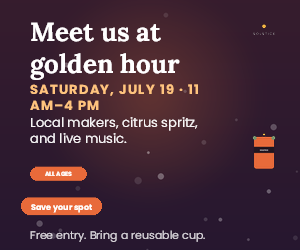
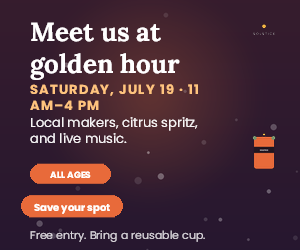
Improve medium-rectangle action hierarchy

Changed region(s): [[0.09, 0.644, 0.42, 0.896]]

diff --git a/engine/chameleon/planner.py b/engine/chameleon/planner.py
@@ -337,6 +337,7 @@ def _layout(dna: DesignDNA, family: str, variant: int = 0) -> dict[str, Any]:
         hero_left = family == "banner_mirror"
         compact = ch < 150
         short_landscape = 360 <= ch < 500
+        medium_rectangle = 200 <= ch <= 320 and 1.0 <= dna.target_aspect <= 1.5
         compact_wide_copy = False
         if compact and len(heads) == 1:
             headline = heads[0].element
@@ -453,7 +454,8 @@ def _layout(dna: DesignDNA, family: str, variant: int = 0) -> dict[str, Any]:
         if badge_groups:
             gap = max(2.0, cw * 0.012)
             available = cw * (0.50 if compact else 0.52)
-            cell_w = max(1.0, min(cw * (0.16 if compact else 0.19), (available - gap * (len(badge_groups) - 1)) / len(badge_groups)))
+            badge_width_cap = 0.27 if medium_rectangle else 0.16 if compact else 0.19
+            cell_w = max(1.0, min(cw * badge_width_cap, (available - gap * (len(badge_groups) - 1)) / len(badge_groups)))
             for i, gid in enumerate(badge_groups):
                 x = mx + i * (cell_w + gap)
                 badge_h = ch * (0.21 if compact else 0.08 if short_landscape else 0.13)
@@ -464,7 +466,7 @@ def _layout(dna: DesignDNA, family: str, variant: int = 0) -> dict[str, Any]:
         )
         for gid in cta_groups:
             x = cw * (0.57 if compact else 0.07)
-            w = cw * 0.27
+            w = cw * (0.34 if medium_rectangle else 0.27)
             y = ch * 0.79 if compact else min(ch - ch * 0.24, cta_y)
             h = max(1.0, ch * (0.21 if compact else 0.18 if short_landscape else 0.13))
             _apply_rect(dna, by_id, dna.groups[gid][0], (x, y, w, h), assigned)

diff --git a/tests/test_engine.py b/tests/test_engine.py
@@ -161,6 +161,14 @@ class EngineContractTests(unittest.TestCase):
         self.assertNotEqual(diagnostics["layout_family"], "source_fit")
         self.assert_contract(source, target, output)
 
+    def test_medium_rectangle_keeps_action_labels_above_legal_copy(self):
+        fixture = json.loads((ROOT / "evidence" / "curated" / "market" / "source.json").read_text(encoding="utf-8"))
+        output = resize(fixture["source"], {"width": 300, "height": 250})
+        by_id = {element["id"]: element for element in output["elements"]}
+        self.assertGreaterEqual(by_id["cta_label"]["font_size"] / by_id["legal_copy"]["font_size"], 0.82)
+        self.assertGreaterEqual(by_id["time_badge_label"]["font_size"] / by_id["legal_copy"]["font_size"], 0.82)
+        self.assertFalse(any("type hierarchy regressed" in issue for issue in get_last_diagnostics()["issues"]))
+
     @staticmethod
     def _union_size(elements):
         x0 = min(float(element["x"]) for element in elements)

diff --git a/docs/failure-taxonomy.md b/docs/failure-taxonomy.md
@@ -5,7 +5,7 @@ This is the current diagnostic snapshot from `evidence/benchmark/report.json`. T
 | Category | Current evidence | Status and next action |
 |---|---|---|
 | Typography and hierarchy | Zero hierarchy regressions across all 64 stress cases and 45 mutations. The earlier 108 stress flags were inherited source ratios, not output regressions. | The scorer compares candidate hierarchy with the source. Action-word inference, proportion-preserving CTA groups, and short-landscape band spacing now keep primary actions above badge labels without clipping or new collisions. |
-| Text clipping and excessive shrinkage | No clipped text in the official outputs, stress cases, or mutations. The official Level 3 banner text sizes are: headline 15.09 px, subhead 8.45 px, and legal line 7.91 px. | Preserve every source string. Compact banner tests enforce headline, legal, badge, and CTA floors. Supporting copy is still small at 728×90. The wide-source market fixture retains hierarchy warnings in its medium-rectangle output. |
+| Text clipping and excessive shrinkage | No clipped text in the official outputs, stress cases, or mutations. The official Level 3 banner text sizes are: headline 15.09 px, subhead 8.45 px, and legal line 7.91 px. | Preserve every source string. Compact banner tests enforce headline, legal, badge, and CTA floors. Supporting copy is still small at 728×90. A medium-rectangle group-width rule removed the hierarchy warning there; the mobile date-to-CTA relationship remains a warning. |
 | Banner reflow | The official 1600×400 and 728×90 tasks select a banner family. Their current renderer-backed outputs use distinct title, copy, action, and product areas. | Continue visual inspection; a legal banner can still be too dense. The advanced sample remains the weakest official composition. |
 | Vertical reflow and target underuse | The 1080×1080 → 1080×1350 warm-up uses a lower action band. The independent 1080×1920 sidecar uses a shorter hero frame and renderer-measured wrapped-copy height with controlled spacing; a regression test checks its group ordering and band size. | The render has tighter hero-to-copy and copy-to-badge spacing, but open space remains between content groups. The 300×600 product remains small because its source asset has transparent margins. More source-backed portrait fixtures are needed before adjusting these bands further. |
 | Collision and grouping | Zero new or worsened collisions in the 64-case stress set and 45 mutations. Grouped elements are checked for intact membership and pair placement. | The metric does not clear or count overlaps already present in the synthetic source. Visual inspection of 45-element samples shows inherited clutter; use source-relative metrics with human review, not as an absolute legibility claim. |

diff --git a/evidence/curated/market/visual-review.md b/evidence/curated/market/visual-review.md
@@ -9,10 +9,10 @@ on the right. The same 11 elements are retained in all outputs.
 | 1080×1920 vertical story | `stack` | Preserves the order of headline, hero, event details, badge, CTA, and footer. The product looks small because of its source image's transparent bounds; gaps between bands remain. |
 | 300×600 mobile story | `stack` | The bold date is now informational copy and no longer overlaps the CTA. The headline and action remain prominent; date and CTA type sizes are close, so the hierarchy diagnostic remains. |
 | 728×90 leaderboard | `banner` | The headline, date, and supporting copy are compressed into a busy strip. The grouped CTA remains visible, but the supporting copy is small. |
-| 300×250 medium rectangle | `banner` | All content remains present without new intersections. Badge and CTA are small; the hierarchy scorer reports that legal copy is too large relative to these labels. |
+| 300×250 medium rectangle | `banner` | Wider action groups improve badge and CTA readability while keeping all content present without new intersections. Legal copy remains readable and no longer triggers a hierarchy regression. |
 
 Every output preserves IDs/count, text, font families, and image references.
 The evaluator reports no off-canvas elements, text clipping, image-ratio
-failures, or new accidental collisions. Compact-format hierarchy warnings are
-retained in `report.json`. These results are synthetic fixture evidence, not an
+failures, or new accidental collisions. The mobile date/CTA hierarchy warning
+is retained in `report.json`. These results are synthetic fixture evidence, not an
 Adobe score or a claim about hidden-set performance.

diff --git a/docs/engineering-walkthrough.md b/docs/engineering-walkthrough.md
@@ -26,6 +26,8 @@ Narrow story layouts use compact hero and copy bands followed by badges and acti
 
 Short bold text containing an explicit date or clock time is treated as informational copy before the generic bold-label CTA cue. This avoids moving event metadata into the action band. Source-fit candidates also receive a gradual target-adaptation penalty as source and target aspect ratios diverge, preserving source continuity for small changes while making genuine recomposition competitive for square and portrait outputs.
 
+For medium-rectangle banners (200–320 px tall and aspect ratio 1.0–1.5), badge and CTA lanes receive more width so grouped labels do not lose hierarchy against the footer. This bounded format-specific rule is covered by an independent wide-source fixture and a type-size regression.
+
 The local proxy reports canvas legality, image fidelity, measured text fit, collisions, group cohesion, target adaptation, canvas use, sampled contrast, and source-relative hierarchy. It is a ranking aid, not Adobe's score. Existing hierarchy ratios are treated as source constraints; candidates are penalized when they materially worsen them. Overlap already present in the source is not called new unless the output worsens it; documented corner bleed is treated similarly when its normalized amount does not increase. New or worsened violations remain penalized. Candidate score, family, variant, validity, and issues are available in diagnostics. The recurring failure classes and latest residual cases are tracked in [failure taxonomy](failure-taxonomy.md).
 
 ## Repair and placement explanations

diff --git a/evidence/docker/validation.md b/evidence/docker/validation.md
@@ -1,6 +1,6 @@
 # Offline Docker validation
 
-Revalidated after the tall-format CTA/badge scale cap, renderer-measured portrait copy bands, date-metadata inference, and source-fit adaptation scoring on 2026-10-16 with Docker Desktop 4.77.0 and engine 29.5.3.
+Revalidated after the tall-format CTA/badge scale cap, renderer-measured portrait copy bands, date-metadata inference, source-fit adaptation scoring, and medium-rectangle action sizing on 2026-10-16 with Docker Desktop 4.77.0 and engine 29.5.3.
 
 Build for the challenge architecture:
 
@@ -21,9 +21,9 @@ docker run --rm --network none `
 
 Two consecutive runs completed with `OK`, and the repository validator reported zero issues for every output:
 
-- Level 1: 0.15–0.16 s; PNG 107,497 bytes
-- Level 2: 0.16–0.17 s; PNG 69,531 bytes
-- Level 3: 0.25–0.27 s; PNG 43,235 bytes
+- Level 1: 0.15 s both runs; PNG 107,497 bytes
+- Level 2: 0.17–0.18 s; PNG 69,531 bytes
+- Level 3: 0.26–0.32 s; PNG 43,235 bytes
 
 Two consecutive `--network none` runs produced byte-identical JSON and PNG
 outputs for all three official samples. PNG SHA-256 values: Level 1

diff --git a/evidence/benchmark/report.md b/evidence/benchmark/report.md
@@ -12,7 +12,7 @@ This score is an internal proxy, not Adobe's hidden evaluator.
 - Stress hierarchy regressions: 0 across 0 cases
 - No-new-collision rate (source-relative): 100.0%
 - Determinism rate: 100.0%
-- Stress runtime median / p95: 0.3370s / 2.4021s
+- Stress runtime median / p95: 0.3142s / 1.8349s
 
 - Mutation structural validity: 100.0%
 - Mutation off-canvas cases: 0
